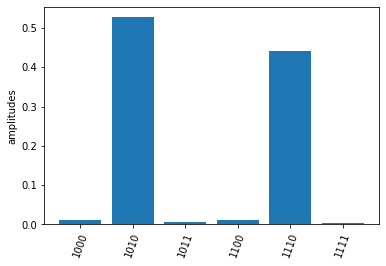
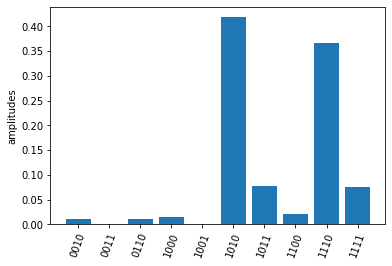
fix output

diff --git a/index.html b/index.html
@@ -163,12 +163,12 @@ python setup.py build
 python setup.py install
 </code></pre>
 <h2 id="set-up-your-quafu-account">Set up your Quafu account</h2>
-<p>To use the toolkit quafu, firstly you need to register on the <a href="http://120.46.160.173/">Quafu</a> website and get your apitoken. If you already have an account, execute the follow code to set up your account:</p>
+<p>To use the toolkit quafu, firstly you need to register on the <a href="http://120.46.160.173/">Quafu</a> website and get your apitoken <code>&lt;your API token&gt;</code>. If you already have an account, execute the follow code to set up your account.</p>
 <pre><code class="language-python">from quafu import User
 user = User()
-user.save_apitoken(&quot;eyJ0eXAiOiJKV1QiLCJhbGciOiJIUzI1NiJ9.eyJpZCI6NTUsIme4cCI6MAsY2MjQ0NzAzNX0.HUw-X_qWbkae_esc-VxSJdP4HUjuvZJEaH762k2378&quot;)
+user.save_apitoken(&lt;your API token&gt;)
 </code></pre>
-<p>Note that you only need to save your token once and no longer need to execute above code when you use quafu after, except you want to change your account.</p>
+<p>You only need to save your token once and no longer need to execute above code when you use quafu after, except you want to change your account.</p>
 <h2 id="build-your-first-quantum-circuit">Build your first quantum circuit</h2>
 <p>Initialize a circuit with 5 qubits</p>
 <pre><code class="language-python">import numpy as np
@@ -185,6 +185,8 @@ q.rx(2, np.pi)
 q.rz(3, 0.1) 
 q.cz(2, 3) 
 </code></pre>
+<pre><code>&lt;quafu.circuits.quantum_circuit.QuantumCircuit at 0x23a358ae850&gt;
+</code></pre>
 <p>Add measurement information including qubits measured (<code>measures</code>) and the classical bits keeping the measured results (<code>cbits</code>). If there is no measurement information provided, all qubits are measured by default.  </p>
 <pre><code class="language-python">measures = [0, 1, 2, 3]
 cbits = [0, 1, 2, 3]
@@ -192,6 +194,14 @@ q.measure(measures,  cbits=cbits)
 </code></pre>
 <p>You can draw the circuit using the <a href="#quafu.circuits.quantum_circuit.QuantumCircuit.draw_circuit"><code>draw_circuit</code></a> method</p>
 <pre><code class="language-python">q.draw_circuit()
+</code></pre>
+<pre><code>q[0]  -----X-------------------------- M-&gt;c[0]
+
+q[1]  -----X-------+---RY(1.571)------ M-&gt;c[1]
+                   |                  
+q[2]  -------------*---RX(3.142)---*-- M-&gt;c[2]
+                                   CZ 
+q[3]  -RZ(0.100)-------------------+-- M-&gt;c[3]
 </code></pre>
 <p>You can also initial your quantum circuit with openqasm text. <a href="#quafu.QuantumCircuit"><code>QuantumCircuit</code></a> class provides the <a href="#quafu.circuits.quantum_circuit.QuantumCircuit.from_openqasm"><code>from_openqasm</code></a> method for initializing quantum circuit directly from openqasm.</p>
 <pre><code class="language-python">qc = QuantumCircuit(4)
@@ -205,6 +215,14 @@ cx q[0],q[3];
 &quot;&quot;&quot;
 qc.from_openqasm(test_ghz)
 qc.draw_circuit()
+</code></pre>
+<pre><code>q[0]  -H---*----*----*-- M-&gt;c[0]
+           |    |    |  
+q[1]  -----+----|----|-- M-&gt;c[1]
+                |    |  
+q[2]  ----------+----|-- M-&gt;c[2]
+                     |  
+q[3]  ---------------+-- M-&gt;c[3]
 </code></pre>
 <h2 id="submit-your-circuit">Submit your circuit</h2>
 <p>Now you are ready to submit the circuit to the experimental backend. First initial a Task object and load your account. </p>
@@ -225,11 +243,16 @@ print(res.counts) #counts
 print(res.amplitudes) #amplitude
 res.plot_amplitudes()
 </code></pre>
+<pre><code>OrderedDict([('0010', 22), ('0011', 2), ('0110', 20), ('1000', 30), ('1001', 2), ('1010', 837), ('1011', 156), ('1100', 44), ('1110', 734), ('1111', 153)])
+{'0010': 0.011, '0011': 0.001, '0110': 0.01, '1000': 0.015, '1001': 0.001, '1010': 0.4185, '1011': 0.078, '1100': 0.022, '1110': 0.367, '1111': 0.0765}
+</code></pre>
+<p><img alt="png" src="index_files/index_19_1.png" /></p>
 <p>If you want to check the correctness the execute results. Quafu provide simple circuit similator based on the qutip pacakge.</p>
 <pre><code class="language-python">from quafu.simulators.qutip_simulator import simulate
 simu_res = simulate(q)
 simu_res.plot_amplitudes(full=True)
 </code></pre>
+<p><img alt="png" src="index_files/index_21_0.png" /></p>
 <p>You can also submit the 4-bit ghz circuit <code>qc</code> built from openqasm.</p>
 <pre><code class="language-python">res = task.send(qc)
 res.plot_amplitudes()
@@ -237,6 +260,8 @@ res.plot_amplitudes()
 simu_res = simulate(qc)
 simu_res.plot_amplitudes()
 </code></pre>
+<p><img alt="png" src="index_files/index_23_0.png" /></p>
+<p><img alt="png" src="index_files/index_23_1.png" /></p>
 <p>If you don't want to plot the results for basis with zero amplitudes, set the parameter <code>full</code> in method <a href="#quafu.results.results.SimuResult.plot_amplitudes"><code>plot_amplitudes</code></a> to False. Note that this parameter is only valid for results returned by simulator.  </p>
 <h2 id="submit-circuit-and-measure-observables">Submit circuit and measure observables</h2>
 <p>Quafu provides measuring observables with an excuted quantum circuit. You can input Pauli operators that need to measure expectation values to the <a href="#quafu.tasks.tasks.Task.submit"><code>submit</code></a> method.
@@ -257,10 +282,22 @@ measures = list(range(5))
 q.measure(measures)
 
 </code></pre>
+<pre><code>q[0]  -H- M-&gt;c[0]
+
+q[1]  --- M-&gt;c[1]
+
+q[2]  -H- M-&gt;c[2]
+
+q[3]  --- M-&gt;c[3]
+
+q[4]  -H- M-&gt;c[4]
+</code></pre>
 <p>Next we set operators that need to be measured to calculate the energy expectation, and submit the circuit using <a href="#quafu.tasks.tasks.Task.submit"><code>submit</code></a> method</p>
 <pre><code class="language-python">test_Ising = [[&quot;X&quot;, [i]] for i in range(5)]
 test_Ising.extend([[&quot;ZZ&quot;, [i, i+1]] for i in range(4)])
 res, obsexp = task.submit(q, test_Ising)
+</code></pre>
+<pre><code>Job start, need measured in  [['XXXXX', [0, 1, 2, 3, 4]], ['ZZZZZ', [0, 1, 2, 3, 4]]]
 </code></pre>
 <p>The function return measurement results and operator expectations. The measurement results only contain two ExecResult object since the circuit is only executed twice, with measurement basis  [['XXXXX', [0, 1, 2, 3, 4]] and ['ZZZZZ', [0, 1, 2, 3, 4]]] respectively.</p>
 <pre><code class="language-python">
@@ -268,12 +305,17 @@ res[0].plot_amplitudes()
 res[1].plot_amplitudes()
 
 </code></pre>
+<p><img alt="png" src="index_files/index_29_0.png" /></p>
+<p><img alt="png" src="index_files/index_29_1.png" /></p>
 <p>The return operator expectations (<code>obsexp</code>) is a list with a length equal to the input operator number. We can use it to calculate the energy expectation </p>
 <pre><code class="language-python">print(obsexp)
 g = 0.5
 E = g*sum(obsexp[:5])+sum(obsexp[5:])
 print(E)
 
+</code></pre>
+<pre><code>[0.9930000000000001, -0.018000000000000016, 1.001, 0.03200000000000003, 1.001, 0.007000000000000006, 0.007000000000000006, -0.05800000000000005, -0.05800000000000005]
+1.4024999999999999
 </code></pre>
 <h2 id="api-reference">API Reference</h2>
 
@@ -4388,5 +4430,5 @@ obslist.extend([["ZZ", [i, i+1]] for i in range(4)])
 
 <!--
 MkDocs version : 1.3.0
-Build Date UTC : 2022-08-06 12:47:47.833338+00:00
+Build Date UTC : 2022-08-06 13:18:50.737857+00:00
 -->
